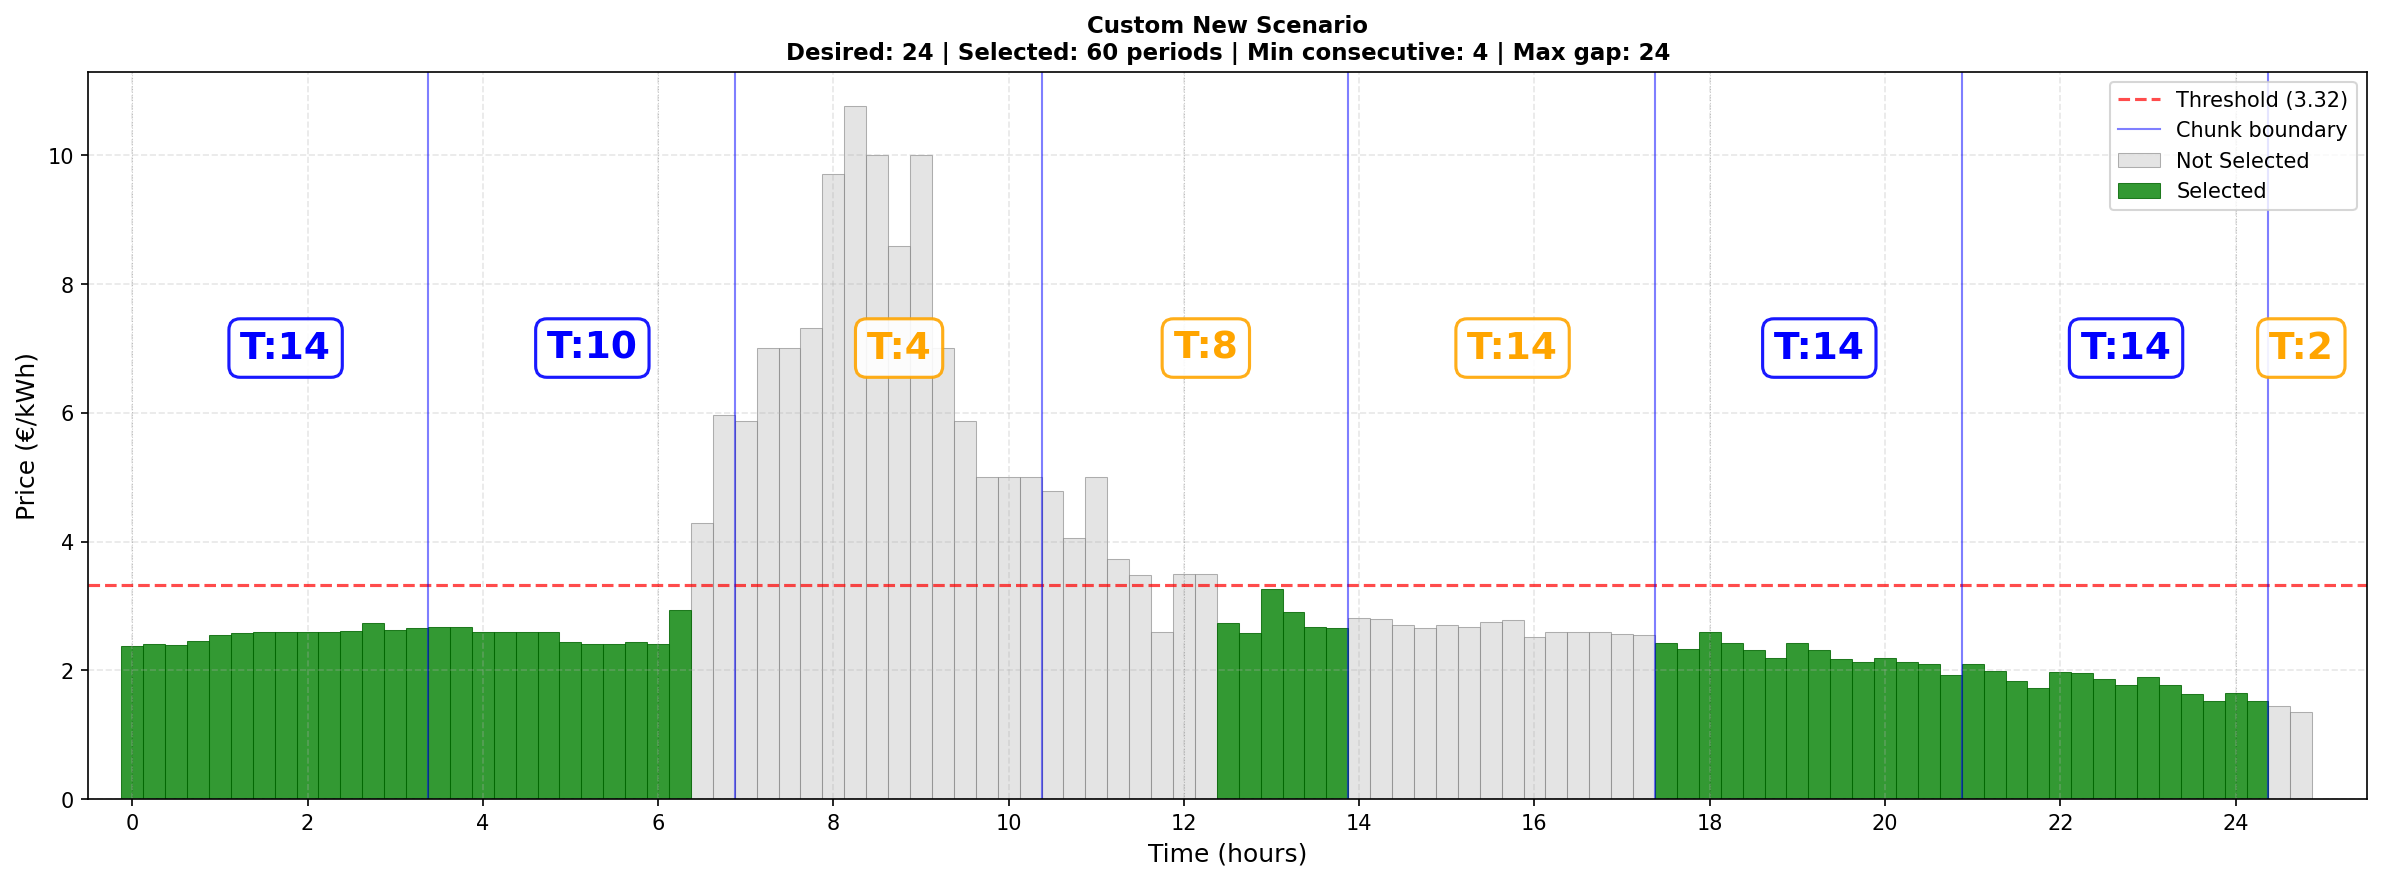
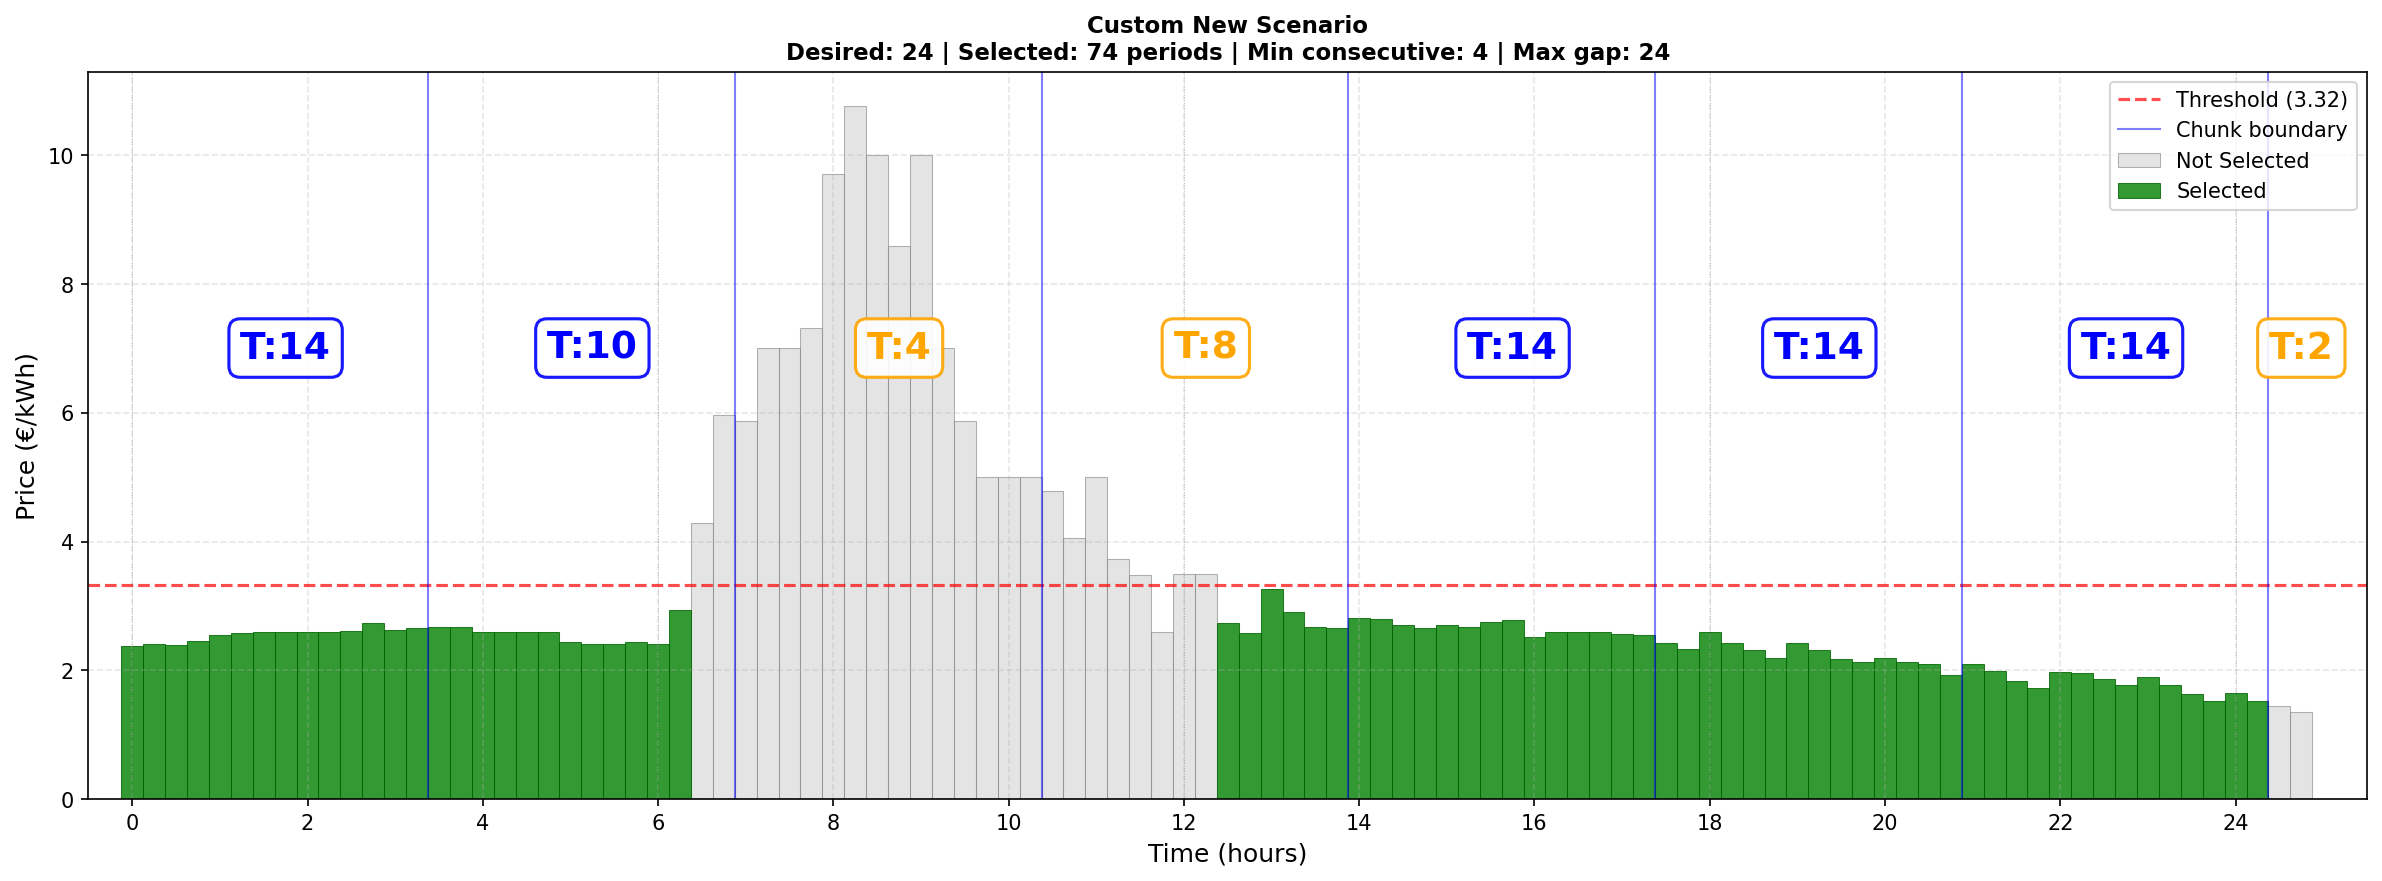
Bridge cheap gaps between selected runs and add mlp.daemon scenario
- Two-phase algorithm: add post-chunk gap bridging for below-threshold items
  When adjacent runs are separated by a gap where every item is at or below
  the low_price_threshold, automatically include those items in selection.
  This eliminates brief idle pauses that are chunk-boundary artifacts where
  each chunk optimizes independently. Improves logic for heating use cases
  where it's wasteful to pause heating for just one period when prices stay low.

- Visualization: add mlp.daemon.planner scenario from 2026-02-25
  76 periods, 37 min_selections, 4 min_consecutive_periods, 20 max_gap,
  8.13 low_price_threshold. Demonstrates the fixed scenario now selects
  42 periods with the gap bridge enabled vs 41 before.

- Tests: add test_mlp_daemon_2026_02_25() validation test

No regressions: all 153 pre-existing tests pass (30 pre-existing failures unrelated)

Changed region(s): [[0.5592, 0.7049, 0.7145, 0.9194], [0.5903, 0.3371, 0.6524, 0.4291]]

diff --git a/tests/visualization_scenarios_test.py b/tests/visualization_scenarios_test.py
@@ -380,3 +380,113 @@ class TestVisualizationScenarios:
                 f"peak_valley constraint violations:\\n" + 
                 "\\n".join(f"  - {v}" for v in violations)
             )
+    
+    def test_mlp_daemon_2026_02_25(self):
+        """Test mlp.daemon.planner scenario from 2026-02-25 with constraint validation."""
+        prices = [
+            Decimal("9.779"),
+            Decimal("12.416"),
+            Decimal("14.999"),
+            Decimal("17.878"),
+            Decimal("10.21"),
+            Decimal("14.997"),
+            Decimal("14.999"),
+            Decimal("14.999"),
+            Decimal("13.486"),
+            Decimal("14.994"),
+            Decimal("14.997"),
+            Decimal("14.057"),
+            Decimal("16.448"),
+            Decimal("14.51"),
+            Decimal("13.709"),
+            Decimal("12.919"),
+            Decimal("15.145"),
+            Decimal("14.999"),
+            Decimal("13.775"),
+            Decimal("11.488"),
+            Decimal("13.482"),
+            Decimal("11.418"),
+            Decimal("9.939"),
+            Decimal("8.865"),
+            Decimal("9.94"),
+            Decimal("9.939"),
+            Decimal("9.2"),
+            Decimal("8.13"),
+            Decimal("9.997"),
+            Decimal("9.94"),
+            Decimal("9.94"),
+            Decimal("9.939"),
+            Decimal("9.939"),
+            Decimal("9.939"),
+            Decimal("10.116"),
+            Decimal("10.006"),
+            Decimal("14.992"),
+            Decimal("11.218"),
+            Decimal("9.015"),
+            Decimal("8.558"),
+            Decimal("6.492"),
+            Decimal("5.0"),
+            Decimal("3.58"),
+            Decimal("2.945"),
+            Decimal("3.521"),
+            Decimal("2.767"),
+            Decimal("2.351"),
+            Decimal("1.528"),
+            Decimal("3.103"),
+            Decimal("3.195"),
+            Decimal("2.884"),
+            Decimal("1.859"),
+            Decimal("2.999"),
+            Decimal("2.999"),
+            Decimal("2.845"),
+            Decimal("2.518"),
+            Decimal("2.809"),
+            Decimal("2.649"),
+            Decimal("2.587"),
+            Decimal("2.558"),
+            Decimal("2.401"),
+            Decimal("2.487"),
+            Decimal("2.369"),
+            Decimal("2.486"),
+            Decimal("2.604"),
+            Decimal("2.795"),
+            Decimal("2.914"),
+            Decimal("2.999"),
+            Decimal("2.655"),
+            Decimal("2.772"),
+            Decimal("2.934"),
+            Decimal("2.85"),
+            Decimal("2.679"),
+            Decimal("2.679"),
+            Decimal("2.739"),
+            Decimal("2.862"),
+        ]
+        
+        params = {
+            "low_price_threshold": Decimal("8.13"),
+            "min_selections": 37,
+            "min_consecutive_periods": 4,
+            "max_gap_between_periods": 20,
+            "max_gap_from_start": 0,
+        }
+        
+        result = get_cheapest_periods(
+            prices=prices,
+            aggressive=False,
+            **params
+        )
+        
+        is_valid, violations = validate_constraints(
+            result,
+            len(prices),
+            params["min_selections"],
+            params["min_consecutive_periods"],
+            params["max_gap_between_periods"],
+            params["max_gap_from_start"],
+        )
+        
+        if not is_valid:
+            pytest.fail(
+                f"mlp_daemon_2026_02_25 constraint violations:\\n" + 
+                "\\n".join(f"  - {v}" for v in violations)
+            )

diff --git a/visualize_results.py b/visualize_results.py
@@ -2164,6 +2164,94 @@ def main():
                 "max_gap_from_start": 33,
             },
         },
+        {
+            "name": "mlp_daemon_2026_02_25",
+            "prices": [
+                Decimal("9.779"),
+                Decimal("12.416"),
+                Decimal("14.999"),
+                Decimal("17.878"),
+                Decimal("10.21"),
+                Decimal("14.997"),
+                Decimal("14.999"),
+                Decimal("14.999"),
+                Decimal("13.486"),
+                Decimal("14.994"),
+                Decimal("14.997"),
+                Decimal("14.057"),
+                Decimal("16.448"),
+                Decimal("14.51"),
+                Decimal("13.709"),
+                Decimal("12.919"),
+                Decimal("15.145"),
+                Decimal("14.999"),
+                Decimal("13.775"),
+                Decimal("11.488"),
+                Decimal("13.482"),
+                Decimal("11.418"),
+                Decimal("9.939"),
+                Decimal("8.865"),
+                Decimal("9.94"),
+                Decimal("9.939"),
+                Decimal("9.2"),
+                Decimal("8.13"),
+                Decimal("9.997"),
+                Decimal("9.94"),
+                Decimal("9.94"),
+                Decimal("9.939"),
+                Decimal("9.939"),
+                Decimal("9.939"),
+                Decimal("10.116"),
+                Decimal("10.006"),
+                Decimal("14.992"),
+                Decimal("11.218"),
+                Decimal("9.015"),
+                Decimal("8.558"),
+                Decimal("6.492"),
+                Decimal("5.0"),
+                Decimal("3.58"),
+                Decimal("2.945"),
+                Decimal("3.521"),
+                Decimal("2.767"),
+                Decimal("2.351"),
+                Decimal("1.528"),
+                Decimal("3.103"),
+                Decimal("3.195"),
+                Decimal("2.884"),
+                Decimal("1.859"),
+                Decimal("2.999"),
+                Decimal("2.999"),
+                Decimal("2.845"),
+                Decimal("2.518"),
+                Decimal("2.809"),
+                Decimal("2.649"),
+                Decimal("2.587"),
+                Decimal("2.558"),
+                Decimal("2.401"),
+                Decimal("2.487"),
+                Decimal("2.369"),
+                Decimal("2.486"),
+                Decimal("2.604"),
+                Decimal("2.795"),
+                Decimal("2.914"),
+                Decimal("2.999"),
+                Decimal("2.655"),
+                Decimal("2.772"),
+                Decimal("2.934"),
+                Decimal("2.85"),
+                Decimal("2.679"),
+                Decimal("2.679"),
+                Decimal("2.739"),
+                Decimal("2.862"),
+            ],
+            "params": {
+                "low_price_threshold": Decimal("8.13"),
+                "min_selections": 37,
+                "min_consecutive_periods": 4,
+                "max_gap_between_periods": 20,
+                "max_gap_from_start": 0,
+            },
+        },
     ]
 
     print(f"Generating {len(scenarios)} test scenarios...")

diff --git a/src/spot_planner/two_phase.py b/src/spot_planner/two_phase.py
@@ -1341,6 +1341,23 @@ def get_cheapest_periods_extended(
     # Sort and validate the final result
     all_selected = sorted(set(all_selected))
 
+    # Bridge gaps where every item in the gap is at or below the threshold.
+    # This eliminates brief idle pauses between two selected cheap runs — a
+    # chunk-boundary artifact where each chunk optimises independently and the
+    # last/first boundary items fall below the global threshold but still raise
+    # the local chunk's average cost enough to be excluded.
+    # Applies regardless of aggressive mode; safe because adding cheap items
+    # between existing selected runs can only reduce or keep gaps the same.
+    selected_set_for_bridge = set(all_selected)
+    for i in range(len(all_selected) - 1):
+        gap_start = all_selected[i] + 1
+        gap_end = all_selected[i + 1]  # exclusive
+        gap_indices = list(range(gap_start, gap_end))
+        if gap_indices and all(prices[j] <= low_price_threshold for j in gap_indices):
+            for j in gap_indices:
+                selected_set_for_bridge.add(j)
+    all_selected = sorted(selected_set_for_bridge)
+
     # CRITICAL: Bridge any remaining large gaps between chunks
     # This ensures gaps between different chunks don't exceed constraints.
     # Uses a while-loop per gap to add multiple bridge blocks if needed.
